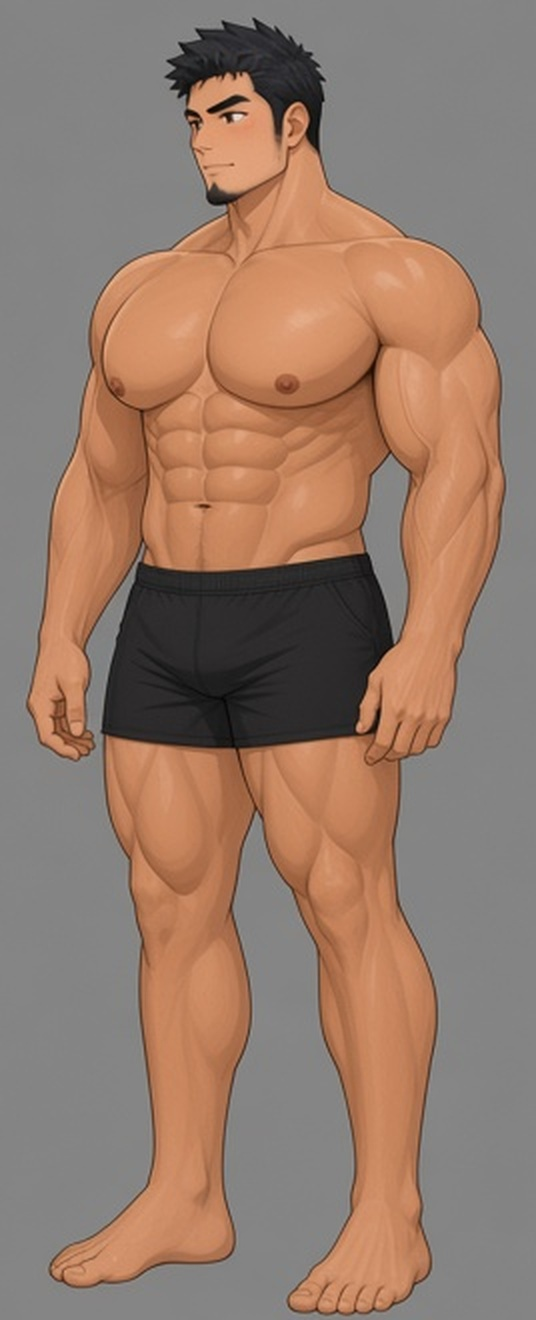
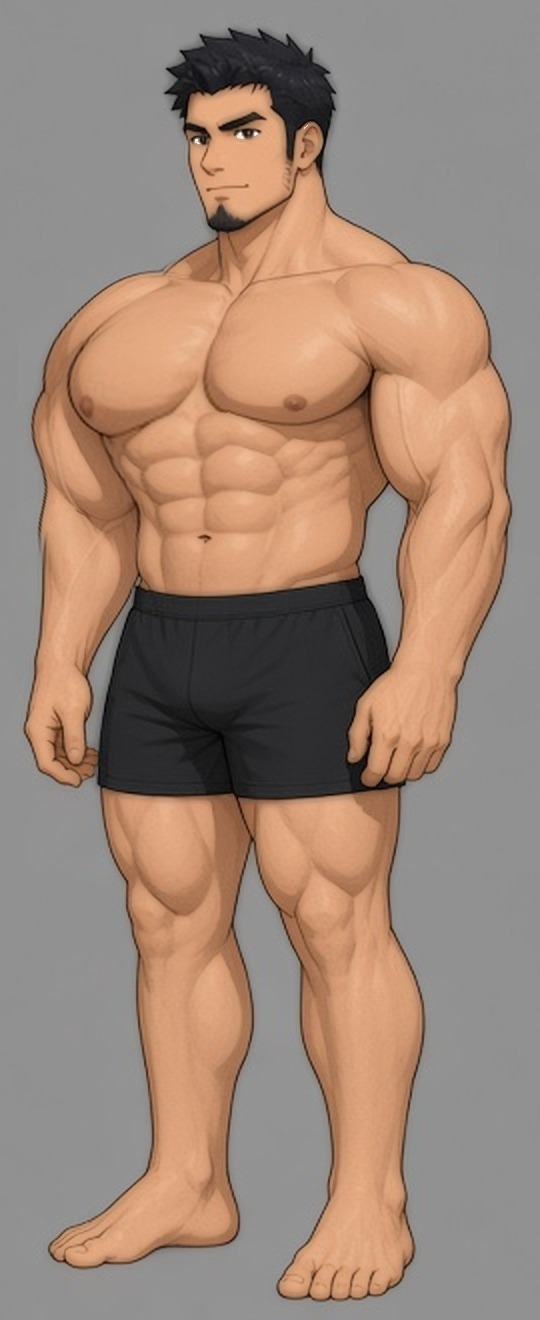
fix: 侧面胸按肌肉侧面改圆改挺
四个角度仍从同一张转面取出，上胸往前挺，下缘收回腹肌。

diff --git a/人物设定图/设定说明.md b/人物设定图/设定说明.md
@@ -7,7 +7,7 @@
 ## 识别点
 
 - 脸：短碎发。眼往侧看，深棕色。下颌收尖，下巴有一小撮山羊胡，颊侧淡胡茬。
-- 体：正面按用户给的全身图，上胸比那张再饱满一点。侧面按后来那张圆胸，只收小一点。上胸仍是最鼓的位置，下缘收回腹肌。高，腿长，肩宽。
+- 体：侧面按用户指出的那张肌肉侧面。上胸最鼓，圆，往前挺，下缘收回腹肌。肩和手臂从侧面看很厚。正面、四分之三、背面跟这张是同一个人。高，腿长，肩宽。
 - 肤色：暖小麦色。渲染用哑光，不要油亮高光。
 
 ## 图
@@ -15,7 +15,9 @@
 - `正面参考.jpg`：选定的脸
 - `正面全身.jpg`：正面全身
 - `头部特写.jpg`：头部特写
-- `全身转面.jpg`：同一次画出的正面、四分之三、侧面、背面，四张是同一个人
+- `全身转面.jpg`：同一次画出的正面、四分之三、侧面、背面，四张是同一个人。侧面胸按肌肉侧面图改圆、改挺
+- `四分之三.jpg`：从这张转面里取出的四分之三
 - `侧面.jpg`：从这张转面里取出的侧面
+- `背面.jpg`：从这张转面里取出的背面
 - `头部转面.jpg`：左侧面、左四分之三、正面、右四分之三、右侧面
 - `表情.jpg`：平视、侧目、轻笑、沉脸
